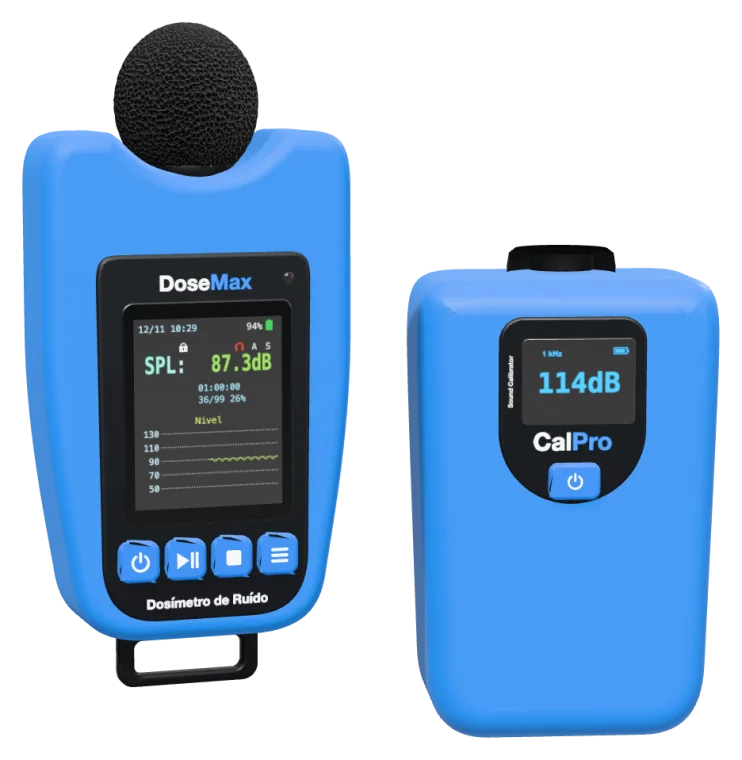
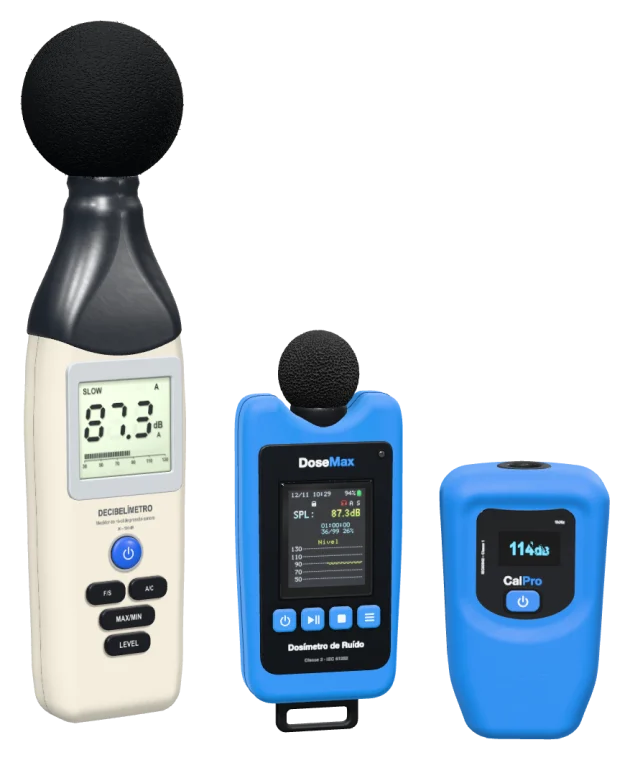
Card Dosimetria: inclui o decibelímetro do simulador na imagem

diff --git a/index.html b/index.html
@@ -251,12 +251,12 @@ footer .wrap > div{display:flex; flex-wrap:wrap; justify-content:space-between; 
    ========================================================== */
 const OWNER = 'neltonsilva-sudo';
 // versão desta página: ao publicar, a central se recarrega sozinha em quem ainda estiver com a cópia antiga
-const BUILD = '2026-11-14 18:10';
+const BUILD = '2026-11-15 11:55';
 (async function selfUpdate(){
   const el = document.getElementById('build'); if(el) el.textContent = 'v' + BUILD;
   try{
     const r = await fetch(location.pathname + '?nc=' + Date.now(), {cache:'no-store', credentials:'omit'});
-    const m = (await r.text()).match(/const BUILD = '([^']+)'/);
+    const m = (await r.text()).match(/const BUILD = '2026-11-15 11:55']+)'/);
     if(m && m[1] !== BUILD){
       const key = 'ct.reload.' + m[1];
       if(!sessionStorage.getItem(key)){ sessionStorage.setItem(key, '1'); location.replace(location.pathname + '?v=' + encodeURIComponent(m[1])); }
@@ -312,7 +312,7 @@ const TRAININGS = [
     title: 'Dosimetria de Ruído', tag: 'NHO-01 · NR-15',
     sub: 'Calibração, instalação no ombro e dose na jornada',
     cat: 'Higiene ocupacional',
-    top: '#ffe2c4', bottom: '#f08a24', split: '60%', hot: '#c2410c', img: 'img/dose.webp', fit: '--ih:100%;--by:-6%'
+    top: '#ffe2c4', bottom: '#f08a24', split: '60%', hot: '#c2410c', img: 'img/dose.webp', fit: '--ih:116%;--by:-12%'
   },
   {
     id: 'hematech', repo: 'simulador-germano-ubu',

diff --git a/tools/studio/studio.html b/tools/studio/studio.html
@@ -358,10 +358,19 @@ async function buildDose() {
   d.group.removeFromParent(); c.group.removeFromParent();
   d.group.position.set(0, 0, 0); d.group.rotation.set(0, 0, 0);
   c.group.position.set(0.085, -0.03, -0.02); c.group.rotation.set(0, -0.25, 0);
-  g.add(d.group, c.group); g.scale.setScalar(100);
+  g.add(d.group, c.group);
+  // decibelímetro (medidor de nível sonoro) do simulador, sem o tripé, em pé atrás à esquerda
+  const { buildSLM } = await import('./dosi/ui_slm.js');
+  const s = buildSLM(THREE); s.group.visible = true; s.setTarget(87.3);
+  for (let i = 0; i < 40; i++) s.update(1, i);
+  const m = s.meter; m.removeFromParent(); m.position.set(0, 0, 0); m.rotation.set(0, 0, 0);
+  g.updateMatrixWorld(true);
+  const bd = new THREE.Box3().setFromObject(d.group);
+  m.position.set(bd.min.x - 0.042, bd.min.y, -0.045); m.rotation.y = 0.32;
+  g.add(m); g.scale.setScalar(100);
   g.traverse((o) => { if (o.isMesh) { o.castShadow = true; o.receiveShadow = true; } });
-  g.rotation.y = 0.18;
-  return { root: g, dir: [-0.15, 0.12, 1], fov: 22, margin: 1.0 };
+  g.rotation.y = 0.12;
+  return { root: g, dir: [-0.1, 0.12, 1], fov: 22, margin: 1.0 };
 }
 
 /* ---------- pelotas de minério de ferro + capacete (Hematech · Germano–Ubu) ---------- */
